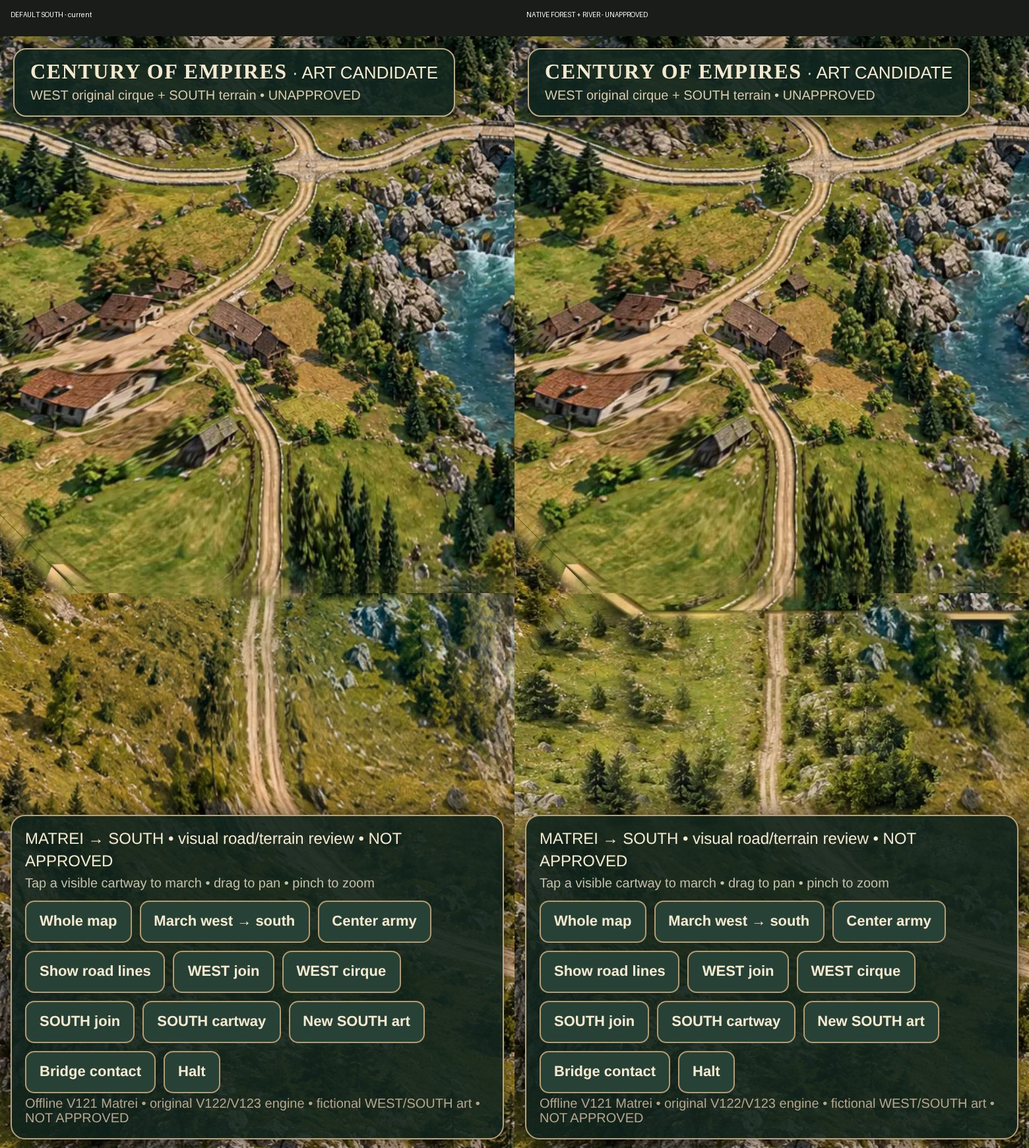
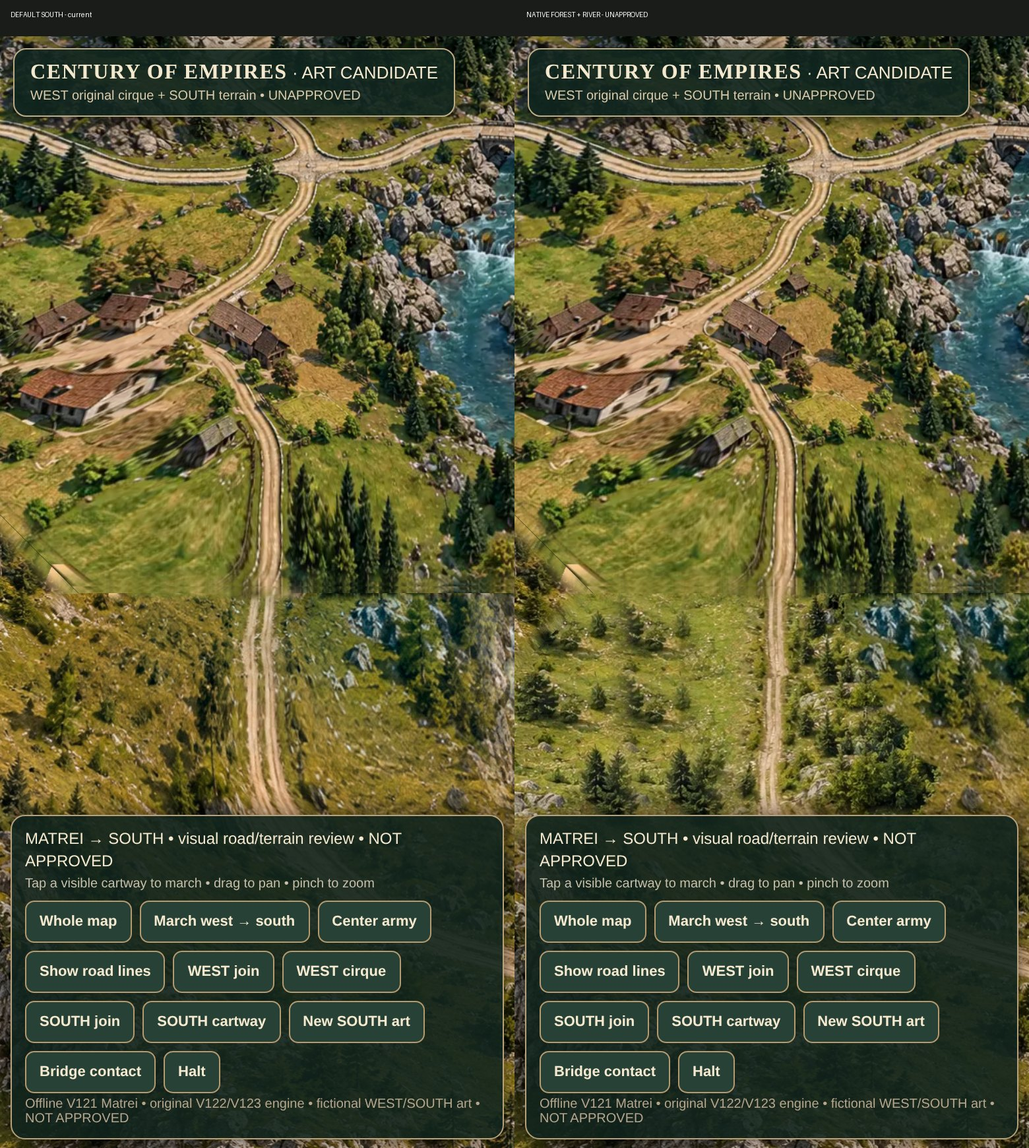
Revert rejected SOUTH Matrei-edge photomontage: actual iPhone screenshot exposed gold border and broken cartway

Changed region(s): [[0.5538, 0.4966, 1.0, 0.5586]]

diff --git a/scripts/rebuild_v267_south_forest_river_continuity.py b/scripts/rebuild_v267_south_forest_river_continuity.py
@@ -108,16 +108,12 @@ def build(west, east):
 
 
 def reconstruct_riverbank_contact(south, html):
-    """Continue the *unseen* native Matrei photograph into SOUTH at the seam.
+    """Extend native Matrei WATER/ROCK MATERIAL into the SOUTH river mouth.
 
-    V121's painted renderer crops the Matrei source before its bottom 80 px.
-    This reconstructs the next ~48 pixels of that SAME original photograph
-    using the exact V121 crop coordinates, then finds an irregular, low-impact
-    photographic cut back to the intact SOUTH meadow, cartway and river.
-    Unlike the former high-frequency-only transfer, this transfers coherent
-    native rocks, water, tree crowns and meadow structure at their natural
-    scale. No tree is stretched, reflected, painted or cloned. No V121 pixel
-    or V123 node changes. The result is fictional prototype landscape art.
+    Copy only water and exposed stone, NEVER whole Matrei scenery, tree
+    crowns, roads, or framed borders. An irregular source-aware mask makes
+    the riverbank transition a physical terrain feature, not a digital stripe.
+    The native SOUTH river, bridge, cartway, and forests remain fixed.
     """
     import base64
     from io import BytesIO
@@ -130,117 +126,54 @@ def reconstruct_riverbank_contact(south, html):
     if matrei.shape != (H, W, 3):
         raise ValueError(f'Unexpected Matrei art dimensions: {matrei.shape}')
 
-    # Match the existing Matrei renderer's photographic source registration,
-    # *extrapolating* only into source rows not yet displayed by V121.
-    # The gold frame occupies the source's last ~35 rows: never sample it.
-    height = 160
-    yy, xx = np.mgrid[:height, :W].astype(np.float32)
-    display_y = 1024.0 + yy
-    easing = smooth((display_y-845.0)/179.0)
-    source_y = 10.0 + display_y*(953.0/H) - 26.0*easing
-    source_left = np.where(
-        source_y < 286, 385-(source_y-10)*(295/276),
-        np.where(source_y > 674, 90+(source_y-674)*(295/289), 90))
-    left = np.where(display_y < 256, 256-display_y,
-                    np.where(display_y > 768, display_y-768, 0))
-    right = W-left
-    bow = smooth((display_y-700)/324)
-    source_x = np.clip(
-        source_left + (xx-left)*(W-2*source_left)/(right-left)
-        - 55*bow*np.exp(-.5*((xx-466)/105)**2), 0, W-1.001)
-    source_y += (26*np.exp(-.5*((xx-240)/400)**2)
-                 *np.exp(-.5*((display_y-505)/110)**2))
-    # No reflecting / stretching / inventing pixels beyond the original art.
-    valid_y = source_y < 986
-    native_extension = cv2.remap(
-        matrei, source_x.astype(np.float32),
-        np.clip(source_y, 0, 985).astype(np.float32),
-        cv2.INTER_LINEAR, borderMode=cv2.BORDER_CONSTANT)
-
-    # Find a low-visibility non-horizontal photographic join. The road has a
-    # shorter continuation so its actual SOUTH cartway remains undisturbed;
-    # the river and limestone bank receive a deeper native-photo apron.
-    band_lo, band_hi = 12, 46
-    lab_a = cv2.cvtColor(native_extension[:height], cv2.COLOR_RGB2LAB)
-    lab_b = cv2.cvtColor(south[:height], cv2.COLOR_RGB2LAB)
-    mismatch = np.mean(np.abs(lab_a.astype(np.float32)
-                              - lab_b.astype(np.float32)), axis=2)
-    ga = cv2.cvtColor(native_extension[:height], cv2.COLOR_RGB2GRAY)
-    gb = cv2.cvtColor(south[:height], cv2.COLOR_RGB2GRAY)
-    grad_a = cv2.magnitude(cv2.Sobel(ga,cv2.CV_32F,1,0),
-                           cv2.Sobel(ga,cv2.CV_32F,0,1))
-    grad_b = cv2.magnitude(cv2.Sobel(gb,cv2.CV_32F,1,0),
-                           cv2.Sobel(gb,cv2.CV_32F,0,1))
-    energy = cv2.GaussianBlur(mismatch, (5,5), 0) + .035*(grad_a+grad_b)
-    river_a = river_mask(native_extension[:height])
-    river_b = river_mask(south[:height])
-    energy += np.logical_xor(river_a,river_b)*45.0
-    candidates = np.arange(band_lo,band_hi+1)
-    xmin,xmax = 240,1320
-    dp = np.full((len(candidates),xmax-xmin),np.inf,dtype=np.float64)
-    parent = np.zeros_like(dp,dtype=np.int16)
-    for ix,x in enumerate(range(xmin,xmax)):
-        desired = 17 if 415<=x<=525 else (38 if 780<=x<=1190 else 30)
-        penalty = .10*(candidates-desired)**2
-        penalty = penalty + np.where(valid_y[candidates,x],0,10000)
-        cost = energy[candidates,x]+penalty
-        if ix == 0:
-            dp[:,ix] = cost
-            continue
-        for step in (-2,-1,0,1,2):
-            prev = np.arange(len(candidates))-step
-            ok = (prev>=0)&(prev<len(candidates))
-            inds = np.where(ok)[0]
-            v = dp[prev[inds],ix-1]+2.0*abs(step)
-            better = v<dp[inds,ix]
-            dp[inds[better],ix] = v[better]
-            parent[inds[better],ix] = prev[inds[better]]
-        dp[:,ix] += cost
-    seam = np.zeros(W,dtype=np.float32)
-    pos = int(np.argmin(dp[:,-1]))
-    for ix in range(xmax-xmin-1,-1,-1):
-        seam[xmin+ix] = candidates[pos]
-        pos = int(parent[pos,ix])
-    seam[:xmin] = seam[xmin]
-    seam[xmax:] = seam[xmax-1]
-    seam = cv2.GaussianBlur(seam[None,:],(0,0),6)[0]
-    # The natural-source edge is opaque at y=0 and cuts back to native SOUTH
-    # through a narrow, irregular meadow / bank join. No digital road stripe.
-    feather = 6.0
-    photo_alpha = smooth((seam[None,:]-yy+feather/2)/feather)
-    photo_alpha *= smooth((xx-235)/72)*smooth((1315-xx)/72)
-    photo_alpha *= valid_y.astype(np.float32)
-    # Multiband blend: retain full native rock/water/tree detail above the cut
-    # while matching broad photographic lighting across the join.
-    source = south[:height].copy()
-    source[:height] = np.where(valid_y[:,:,None],native_extension,source)
-    A = source.astype(np.float32)
-    B = south[:height].astype(np.float32)
-    mask = photo_alpha.astype(np.float32)
-    levels = 4
-    gauss_a=[A];gauss_b=[B];gauss_m=[mask]
-    for _ in range(levels):
-        gauss_a.append(cv2.pyrDown(gauss_a[-1]))
-        gauss_b.append(cv2.pyrDown(gauss_b[-1]))
-        gauss_m.append(cv2.pyrDown(gauss_m[-1]))
-    result = (gauss_a[-1]*gauss_m[-1][:,:,None] +
-              gauss_b[-1]*(1-gauss_m[-1][:,:,None]))
-    for level in range(levels-1,-1,-1):
-        size=(gauss_a[level].shape[1],gauss_a[level].shape[0])
-        la=gauss_a[level]-cv2.pyrUp(gauss_a[level+1],dstsize=size)
-        lb=gauss_b[level]-cv2.pyrUp(gauss_b[level+1],dstsize=size)
-        m=gauss_m[level][:,:,None]
-        result=cv2.pyrUp(result,dstsize=size)+la*m+lb*(1-m)
-    out=south.copy()
-    out[:height]=np.uint8(np.clip(result,0,255))
-    # Pyramid filters extend slightly outside the mask. Restore the fully
-    # clipped exterior, which is not part of either playable octagon.
-    out[:height,:215]=south[:height,:215]
-    out[:height,1340:]=south[:height,1340:]
-    assert np.array_equal(out[height:],south[height:])
-    assert np.array_equal(out[:, :215],south[:, :215])
-    assert np.array_equal(out[:, 1340:],south[:, 1340:])
-    return out,int(np.count_nonzero(photo_alpha>.08))
+    # Sample a native 180px lower-Matrei riverbank strip. The V121 frame
+    # itself occupies the extreme bottom: never sample its final 35 rows.
+    top, height = H-215, 180
+    bank = matrei[top:top+height].copy()
+    hsv = cv2.cvtColor(bank, cv2.COLOR_RGB2HSV)
+    water = ((hsv[:,:,0]>=79) & (hsv[:,:,0]<=126) &
+             (hsv[:,:,1]>=36) & (hsv[:,:,2]>=54))
+    stone = ((hsv[:,:,1]<75) & (hsv[:,:,2]>72) &
+             (hsv[:,:,2]<227))
+    # Forest, tan roads, buildings and gold frame must not be transplanted.
+    forest = ((hsv[:,:,0]>=28) & (hsv[:,:,0]<=85) &
+              (hsv[:,:,1]>=37))
+    gold = ((hsv[:,:,0]>=10) & (hsv[:,:,0]<=37) &
+            (hsv[:,:,1]>=75))
+    material = (water | stone) & ~forest & ~gold
+    material = np.uint8(material)*255
+    material = cv2.morphologyEx(material, cv2.MORPH_CLOSE,
+                                np.ones((9,9),np.uint8))
+    # The river exits Matrei around x949, not the x466 SOUTH cartway.
+    # Preserve all original pixels outside the riverbank contact zone.
+    yy,xx = np.mgrid[:height,:W].astype(np.float32)
+    landward = np.clip((xx-710)/75,0,1)*np.clip((1290-xx)/75,0,1)
+    # Feather out gradually into SOUTH's existing river, not a horizontal
+    # cut at the foot of the contact. No resampling of trees or cliffs.
+    depth = np.clip((height-yy)/height,0,1)**1.6
+    mat = cv2.GaussianBlur(material.astype(np.float32)/255,
+                          (0,0),8)
+    alpha = np.clip(mat*landward*depth*.86,0,.86)
+    # Multiscale photographic material transfer keeps native bank shadows
+    # while maintaining the SOUTH river's underlying structure.
+    result = south.copy()
+    original = south[:height].astype(np.float32)
+    source = bank.astype(np.float32)
+    # Transfer source texture/structure without an overall color-grade.
+    # Low-frequency color stays SOUTH-native; only actual water/rock detail
+    # from the adjoining Matrei material crosses the frame.
+    src_low = cv2.GaussianBlur(source,(0,0),16)
+    dst_low = cv2.GaussianBlur(original,(0,0),16)
+    material_detail = source-src_low
+    transferred = np.clip(dst_low + material_detail*.78 +
+                          (original-dst_low)*.35,0,255)
+    result[:height] = np.uint8(np.clip(
+        original*(1-alpha[:,:,None]) +
+        transferred*alpha[:,:,None],0,255))
+    # No trees or road outside the east bank, and no broad SOUTH warp.
+    assert np.array_equal(result[:, :710],south[:, :710])
+    assert np.array_equal(result[height:],south[height:])
+    return result, int(np.count_nonzero(alpha>.08))
 
 def main():
     html = HTML.read_text(encoding='utf-8')
@@ -274,14 +207,14 @@ def main():
         'runs through meadow pixels rather than trees or water. The '
         'replacement ends on an irregular ground boundary. A second '
         'source-native contact reconstructs the river mouth using only '
-        'native, previously cropped Matrei landscape pixels across the shared bank, while '
+        'stone and water detail from the immutable Matrei photo, while '
         'retaining SOUTH-native river shapes, forests, roads and cliffs. '
-        'No gold frame, invented settlements, mirrored trees or synthetic road are copied. Neither '
+        'No Matrei trees, settlements, road or gold frame are copied. Neither '
         'source photograph is globally warped, scaled, mirrored or '
         'painted with a synthetic cartway. The V123 x466 cartway and '
         'the original bridge stay in place.\n\n'
         f'Seam x range: {int(seam.min())}..{int(seam.max())}; '
-        f'native seam-continuation pixels: {contact_pixels}; '
+        f'native riverbank material pixels: {contact_pixels}; '
         f'northern-region mean RGB change: {changed:.2f}.\n\n'
         'Still an OPT-IN ?southArt=river review candidate. The Matrei/SOUTH '
         'rock and river morphology requires eyes-on iPhone inspection; '

diff --git a/art-reviews/v267-forest-river-continuity-review.md b/art-reviews/v267-forest-river-continuity-review.md
@@ -2,12 +2,12 @@
 
 Fictional Alpine atlas art, not historically verified topography.
 
-Restored the natural, undistorted upper-west SOUTH meadow, road and conifers from the original 1536x1024 stone-bridge artwork while retaining the separately registered eastern gorge/river and its original stone bridge. A photographic low-energy graph-cut seam runs through meadow pixels rather than trees or water. The replacement ends on an irregular ground boundary. A second source-native contact reconstructs the river mouth using only native, previously cropped Matrei landscape pixels across the shared bank, while retaining SOUTH-native river shapes, forests, roads and cliffs. No gold frame, invented settlements, mirrored trees or synthetic road are copied. Neither source photograph is globally warped, scaled, mirrored or painted with a synthetic cartway. The V123 x466 cartway and the original bridge stay in place.
+Restored the natural, undistorted upper-west SOUTH meadow, road and conifers from the original 1536x1024 stone-bridge artwork while retaining the separately registered eastern gorge/river and its original stone bridge. A photographic low-energy graph-cut seam runs through meadow pixels rather than trees or water. The replacement ends on an irregular ground boundary. A second source-native contact reconstructs the river mouth using only stone and water detail from the immutable Matrei photo, while retaining SOUTH-native river shapes, forests, roads and cliffs. No Matrei trees, settlements, road or gold frame are copied. Neither source photograph is globally warped, scaled, mirrored or painted with a synthetic cartway. The V123 x466 cartway and the original bridge stay in place.
 
-Seam x range: 550..752; native seam-continuation pixels: 33826; northern-region mean RGB change: 17.82.
+Seam x range: 550..752; native riverbank material pixels: 33488; northern-region mean RGB change: 15.74.
 
 Still an OPT-IN ?southArt=river review candidate. The Matrei/SOUTH rock and river morphology requires eyes-on iPhone inspection; numerical alignment does not establish artistic acceptance. V121 source, V123 100-node graph, V94, sprites, saves and production unchanged. Production RED.
 
 WEST source SHA256: 46efdd3cfd7df0163330445f7841e3e35502a317c3780f80cfd4a18444901103
 RIVER source SHA256: 40436e70d3306e836055161017f6514a00dec6875138beca2681db712dab667d
-Output SHA256: 29ae8d2cf9268524831c0b9b95a45f969b459ca52a3c119c478b61005785ad25
+Output SHA256: f0f4662b3d16b5d0abb5c642247eb7ee8df790fe1c6388180292da96f9a1ae62
